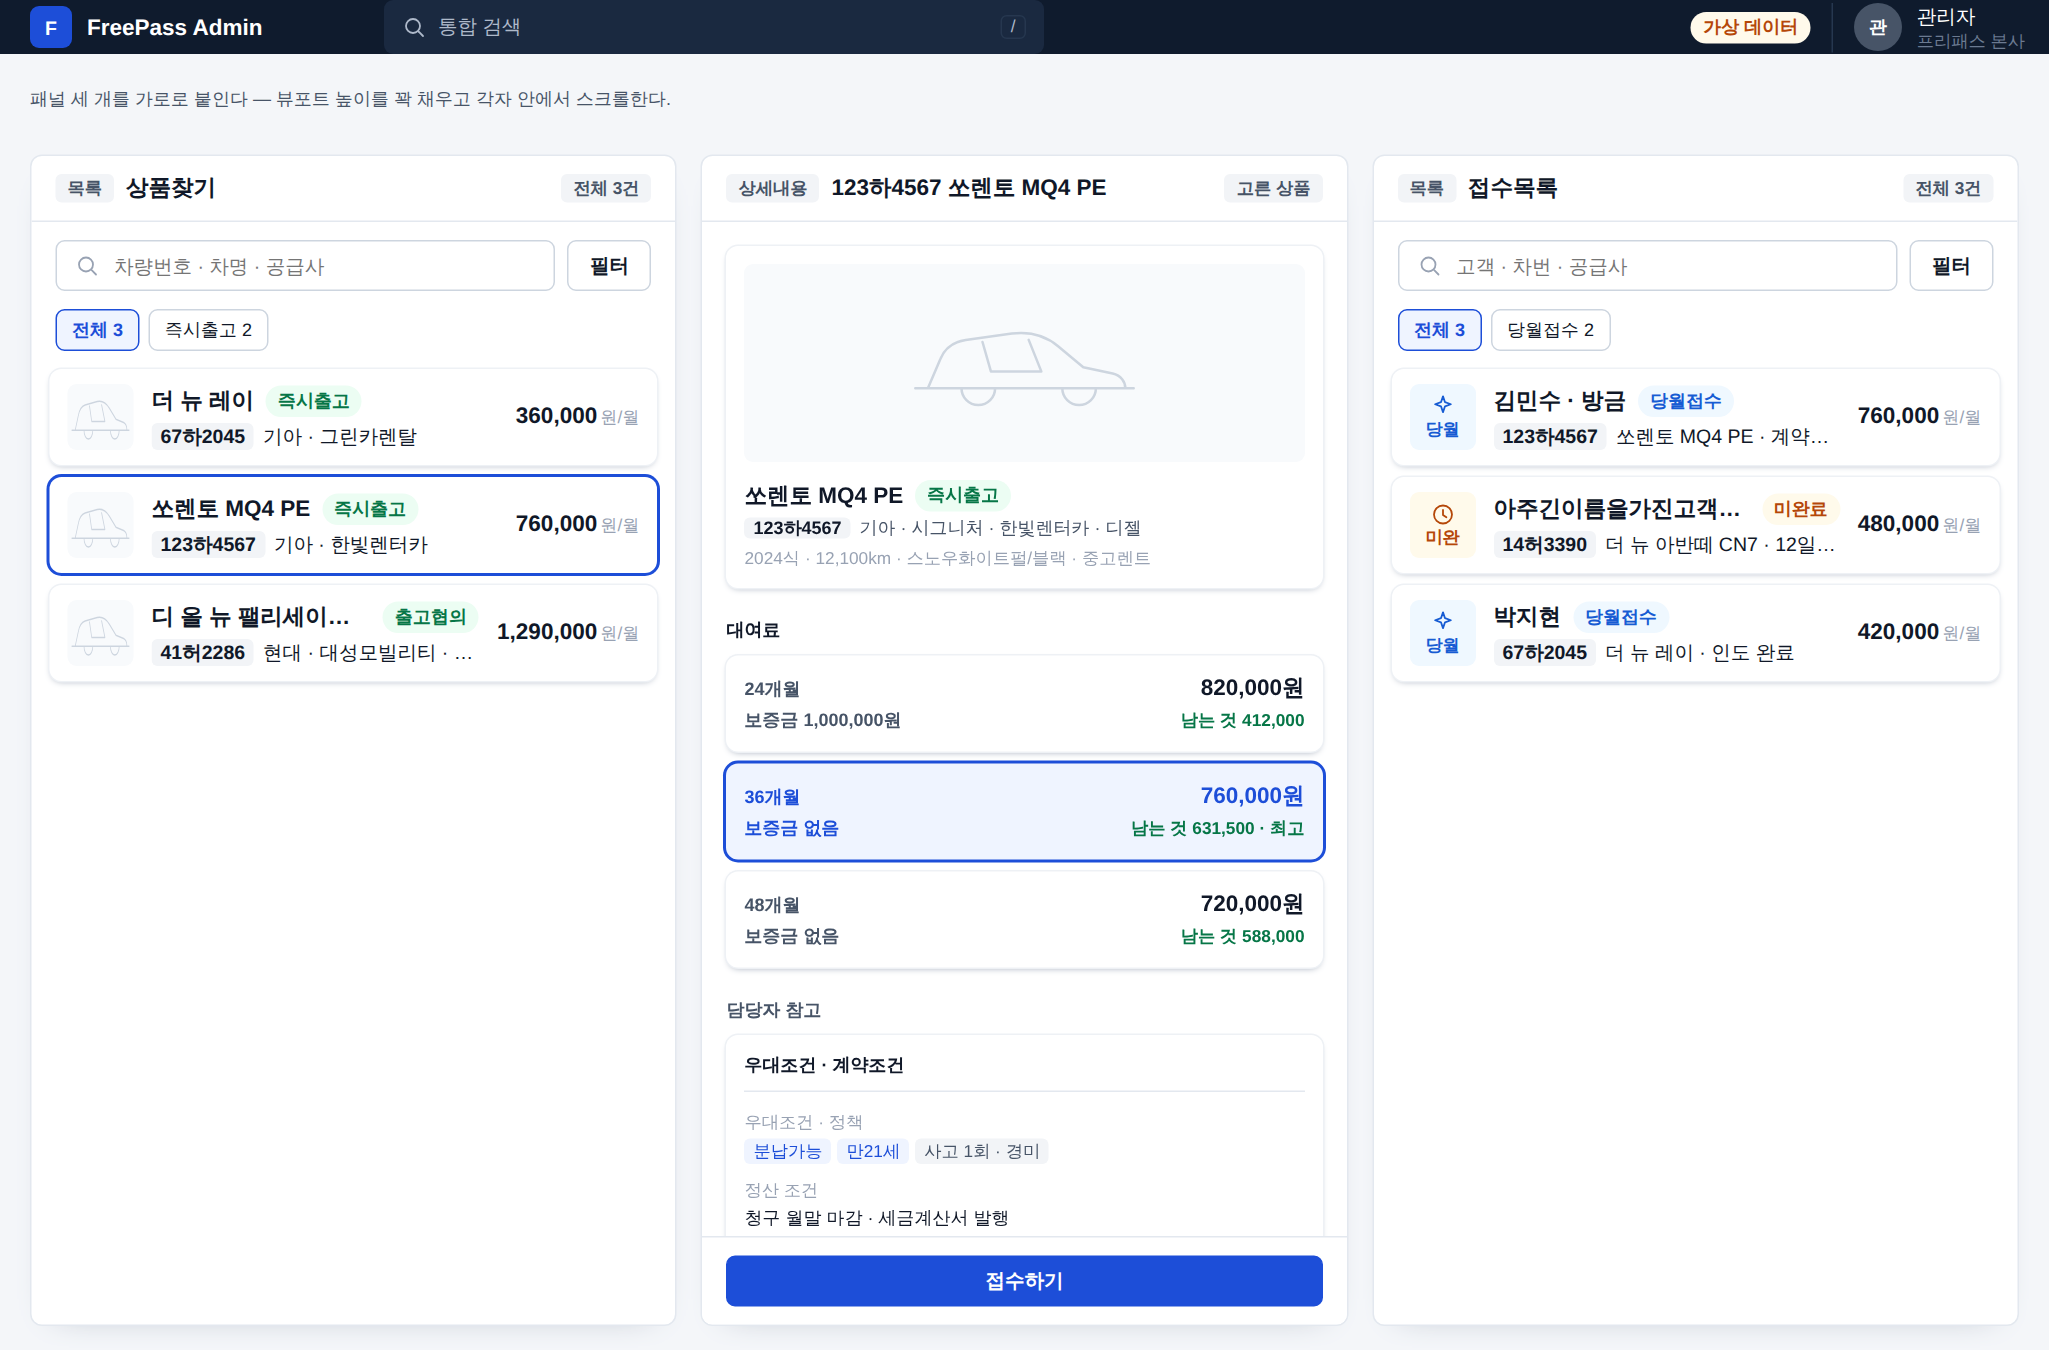
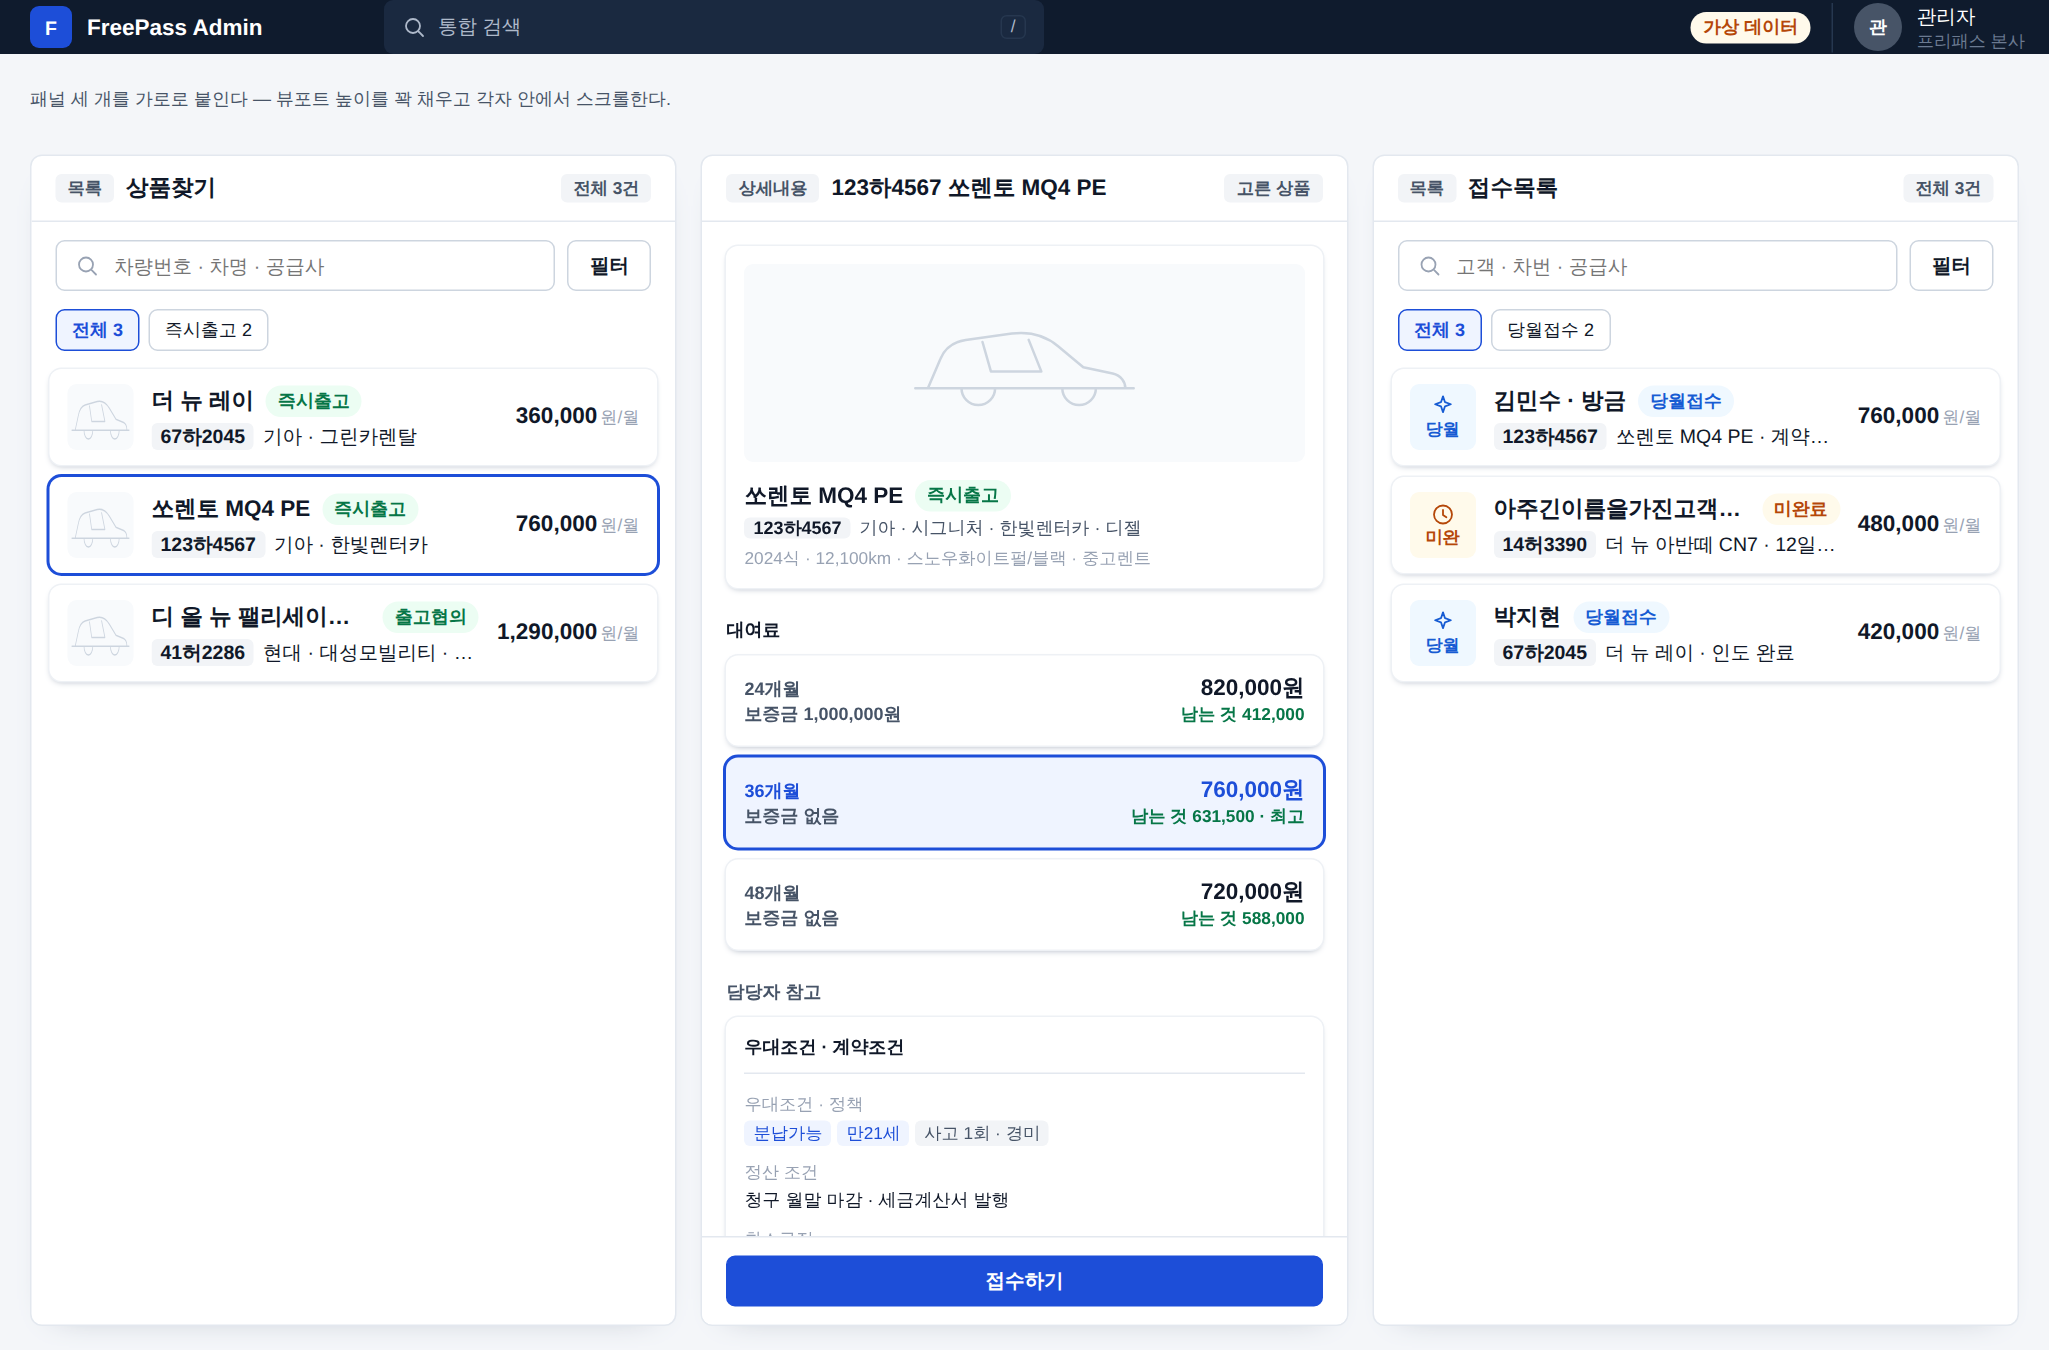
Promote tile-row (2-line key-info layout) into common erp.css
While applying erp-tile to freepass-admin's real product detail screen,
found its rate table (term/rent/deposit) was still a plain HTML <table>
because only the tile shell (erp-tile) was in the common standard — the
inner "term + price / deposit + margin" 2-row layout was still page-local
CSS (sv-term-main/sv-term-sub/sv-term-deposit/sv-term-margin) in the
side-by-side reference, not reusable by real screens.

Generalized it to erp-tile-row: a row with bold lede (<b>) + emphasized
figure (<strong>) on one line, label (<span>) + accented note
(<span class="erp-tile-note--accent">) on the next, turning Primary when
the tile is pressed. Rewired the reference page's rate cards onto it and
removed the now-dead sv-term-* CSS — the reference page no longer owns
any of this card's styling, shell or inner rows.

Claude-Session: https://claude.ai/code/session_01VHqvSXhUy82o1cFFrYMP3F

Changed region(s): [[0.3436, 0.5289, 0.6559, 0.9333]]

diff --git a/design/erp-standard/reference/side-by-side.css b/design/erp-standard/reference/side-by-side.css
@@ -31,7 +31,7 @@ body.ref-page { margin: 0; padding: 0; height: 100vh; display: flex; flex-direct
  * 모서리 · 그림자 · 카드 사이 간격은 더 이상 이 페이지에 없다 — erp.css 의 `erp-tile`/`erp-tile-group`/
  * `erp-tile-title`/`erp-tile--pressable`(§5-4)로 옮겨 공통 규격이 됐다. 이 패널 안의 카드는 성격이
  * 둘뿐이다.
- *   A. 누르는 카드(`erp-tile erp-tile--pressable`, 여기서는 sv-term) — 골라서 접수를 결정하는 카드.
+ *   A. 누르는 카드(`erp-tile erp-tile--pressable`, 여기서는 대여료 기간 선택 카드) — 골라서 접수를 결정하는 카드.
  *      고르면 Primary 색 그림자 테로 바뀐다(aria-pressed).
  *   B. 설명하는 카드(`erp-tile`, 여기서는 sv-car-card · sv-ref-card) — 그냥 읽는 참고 카드. 상태
  *      변화가 없다.
@@ -54,17 +54,11 @@ body.ref-page { margin: 0; padding: 0; height: 100vh; display: flex; flex-direct
 /* sv-terms 는 카드 사이 간격을 더 이상 직접 안 갖는다 — erp-tile-group(erp.css)이 공통으로 준다. */
 /* 핵심 정보는 기간 · 대여료 · 보증금 셋이다(대표 2026-09-24 「대여료만 강조하는 게 아니고 기간 대여료
  * 보증금이 가장 핵심 정보지 우리 대여에서는」) — 1행에 기간 · 대여료, 2행에 보증금을 같은 무게로 둔다.
- * 「남는 것」은 담당자만 보는 참고 수치라 핵심 정보 옆에 작은 캡션으로만 남긴다. sv-term 자체의 패딩 ·
- * 모서리 · 그림자 · 골랐을 때(aria-pressed) Primary 강조는 erp-tile/erp-tile--pressable(erp.css) 몫이고,
- * 여기서는 안의 두 줄 배치만 잡는다. */
-.sv-term { display: flex; flex-direction: column; gap: 4px; }
-.sv-term-main { display: flex; align-items: baseline; justify-content: space-between; gap: 10px; }
-.sv-term-sub { display: flex; align-items: baseline; justify-content: space-between; gap: 10px; }
-.sv-term-main b { font-weight: var(--erp-fw-bold); color: var(--erp-color-text-2); font-size: var(--erp-fs-label); }
-.sv-term-main strong { font-size: var(--erp-fs-section); font-weight: var(--erp-fw-bold); color: var(--erp-color-text); }
-.sv-term-deposit { color: var(--erp-color-text-2); font-size: var(--erp-fs-label); font-weight: var(--erp-fw-semibold); }
-.sv-term-margin { color: var(--erp-color-ok); font-size: var(--erp-fs-caption); font-weight: var(--erp-fw-semibold); }
-.sv-term[aria-pressed="true"] .sv-term-main b, .sv-term[aria-pressed="true"] .sv-term-main strong, .sv-term[aria-pressed="true"] .sv-term-deposit { color: var(--erp-color-primary); }
+ * 「남는 것」은 담당자만 보는 참고 수치라 핵심 정보 옆에 작은 캡션(`erp-tile-note--accent`)으로만
+ * 남긴다. freepass-admin 실제 적용 때 이 카드 안 두 줄 배치(옛 sv-term-main/sv-term-sub/sv-term-deposit/
+ * sv-term-margin)가 상품(대여료) 전용이 아니라 어느 타일이든 쓸 수 있는 일반형이라는 걸 깨닫고
+ * `erp-tile-row`로 erp.css 공통 규격에 올렸다 — 이 페이지는 더 이상 이 카드의 안쪽 배치조차 갖지
+ * 않는다, 셸(`erp-tile`)과 안쪽 행(`erp-tile-row`) 둘 다 공통 부품이다. */
 
 /* ③ 담당자 참고 — 설명하는 카드, 섹션별로 크게. sv-ref-list 의 카드 사이 간격 · sv-ref-card 의 패딩 ·
  * 모서리 · 그림자 · sv-ref-card-title 의 제목 규격도 전부 erp-tile-group/erp-tile/erp-tile-title

diff --git a/design/erp-standard/reference/side-by-side.html b/design/erp-standard/reference/side-by-side.html
@@ -71,17 +71,17 @@
         <div class="sv-terms-main">
           <p class="sv-section-title sv-section-title--main">대여료</p>
           <div class="sv-terms erp-tile-group">
-            <div class="sv-term erp-tile erp-tile--pressable" aria-pressed="false">
-              <div class="sv-term-main"><b>24개월</b><strong>820,000원</strong></div>
-              <div class="sv-term-sub"><span class="sv-term-deposit">보증금 1,000,000원</span><span class="sv-term-margin">남는 것 412,000</span></div>
+            <div class="erp-tile erp-tile--pressable" aria-pressed="false">
+              <div class="erp-tile-row"><b>24개월</b><strong>820,000원</strong></div>
+              <div class="erp-tile-row"><span>보증금 1,000,000원</span><span class="erp-tile-note--accent">남는 것 412,000</span></div>
             </div>
-            <div class="sv-term erp-tile erp-tile--pressable" aria-pressed="true">
-              <div class="sv-term-main"><b>36개월</b><strong>760,000원</strong></div>
-              <div class="sv-term-sub"><span class="sv-term-deposit">보증금 없음</span><span class="sv-term-margin">남는 것 631,500 · 최고</span></div>
+            <div class="erp-tile erp-tile--pressable" aria-pressed="true">
+              <div class="erp-tile-row"><b>36개월</b><strong>760,000원</strong></div>
+              <div class="erp-tile-row"><span>보증금 없음</span><span class="erp-tile-note--accent">남는 것 631,500 · 최고</span></div>
             </div>
-            <div class="sv-term erp-tile erp-tile--pressable" aria-pressed="false">
-              <div class="sv-term-main"><b>48개월</b><strong>720,000원</strong></div>
-              <div class="sv-term-sub"><span class="sv-term-deposit">보증금 없음</span><span class="sv-term-margin">남는 것 588,000</span></div>
+            <div class="erp-tile erp-tile--pressable" aria-pressed="false">
+              <div class="erp-tile-row"><b>48개월</b><strong>720,000원</strong></div>
+              <div class="erp-tile-row"><span>보증금 없음</span><span class="erp-tile-note--accent">남는 것 588,000</span></div>
             </div>
           </div>
         </div>

diff --git a/design/erp-standard/erp.css b/design/erp-standard/erp.css
@@ -458,6 +458,17 @@
 .erp-tile--pressable { cursor: pointer; }
 .erp-tile--pressable:hover { box-shadow: 0 0 0 1px var(--erp-color-line-strong), 0 4px 10px -3px var(--erp-color-text-3); }
 .erp-tile--pressable[aria-pressed="true"] { background: var(--erp-color-primary-weak); box-shadow: 0 0 0 2px var(--erp-color-primary); }
+/* 타일 안 내용 — 핵심 정보 2행(freepass-admin 실제 적용 때 일반화, 대표 2026-09-24 「기간 대여료
+ * 보증금이 가장 핵심 정보지」의 카드 안 배치를 상품상세 레퍼런스 전용 클래스(sv-term-main 등)로 남기지
+ * 않고 모든 타일이 쓸 수 있게 올렸다) — 한 줄에 굵은 이름(b) + 강조 값(strong)을 양 끝으로, 보조 줄은
+ * 옅은 라벨(span) + 강조 보조값(erp-tile-note--accent)을 양 끝으로 둔다. 골랐을 때(aria-pressed)는
+ * 메인 줄이 Primary 색으로 바뀐다. */
+.erp-tile-row { display: flex; align-items: baseline; justify-content: space-between; gap: 10px; }
+.erp-tile-row b { font-weight: var(--erp-fw-bold); color: var(--erp-color-text-2); font-size: var(--erp-fs-label); }
+.erp-tile-row strong { font-size: var(--erp-fs-section); font-weight: var(--erp-fw-bold); color: var(--erp-color-text); }
+.erp-tile-row span { font-size: var(--erp-fs-label); font-weight: var(--erp-fw-semibold); color: var(--erp-color-text-2); }
+.erp-tile-row .erp-tile-note--accent { color: var(--erp-color-ok); font-size: var(--erp-fs-caption); font-weight: var(--erp-fw-semibold); }
+.erp-tile--pressable[aria-pressed="true"] .erp-tile-row b, .erp-tile--pressable[aria-pressed="true"] .erp-tile-row strong { color: var(--erp-color-primary); }
 /* 목록 패널 안 — 좁은 폭에서도 서는 작은 긴 카드(§5-3 erp-rowcard 를 그대로 쓰되 칸을 좁힌다)
  * 눌러야 상세내용 패널이 열리므로(대표 2026-09-24 「누르면 상세가 보이는데 계속 보고 있을 것도 아니고」),
  * 여기서는 상태(뱃지)와 고르는 데 필요한 최소 식별 정보 + 금액까지만 — steps 트래커 · facts 는 상세내용 패널 몫이라 뺀다.

diff --git a/design/erp-standard/README.md b/design/erp-standard/README.md
@@ -274,6 +274,18 @@
 없음 — box-shadow는 border가 아니다). `erp-tile`·`erp-tile--pressable`·`.erp-panel--compact .erp-rowcard`
 셋 다 같은 값을 쓴다. 확인 그림: `images/side-by-side.png`.
 
+**타일 안 내용 — 핵심 정보 2행(`erp-tile-row`)도 공통 규격으로** (FreePass Admin 실제 적용 중 발견,
+대표 2026-09-24 「새로 만들지 말고 그 공통 규격을 활용해서 프리패스 어드민 구성해보자」). freepass-admin
+의 실제 상품상세 화면(`ProductsScreen.tsx`)에 있는 요금 표(기간 · 월 대여료 · 보증금)가 아직 맨 HTML
+`<table>`이었다 — 이 세션에서 다듬은 "기간·대여료·보증금 2행 타일"이 상품상세 레퍼런스에만 있고
+`erp.css`에는 카드 셸(`erp-tile`)만 있고 안쪽 두 줄 배치(옛 `sv-term-main`/`sv-term-sub`)는 없었기
+때문이다. 안쪽 배치도 상품 전용이 아니라 어느 타일이든 쓸 수 있는 일반형이라 `erp-tile-row`로
+올렸다 — 한 줄에 굵은 이름(`<b>`) + 강조 값(`<strong>`)을 양 끝으로, 보조 줄은 라벨(`<span>`) + 강조
+보조값(`<span class="erp-tile-note--accent">`)을 양 끝으로 둔다. `erp-tile--pressable`이 골랐을 때
+(`aria-pressed="true"`)는 메인 줄(`<b>`·`<strong>`)이 Primary 색으로 바뀐다. 상품상세 레퍼런스의
+대여료 카드도 이 공통 클래스로 다시 그렸다 — 이제 이 페이지에 대여료 카드 안쪽 배치 CSS가 하나도
+안 남는다(셸도 안쪽 행도 전부 `erp.css` 공통 부품). 확인 그림: `images/side-by-side.png`.
+
 ## 5-5. 목록 카드 — 대상별 규격 (FreePass Admin, 대표 2026-09-24)
 
 「목록 카드를 세 줄로 관리하고, 접수 목록에서는 이 접수가 지금 어느 단계인지 명확하게 — 목록 카드 성격별로 정확하게」.
